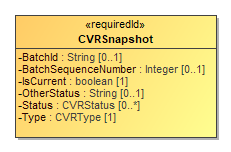
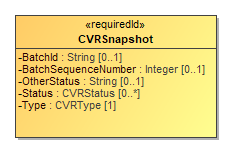
update UML docs

Changed region(s): [[0.0606, 0.5, 0.6364, 0.8158]]

diff --git a/CastVoteRecords_UML_Documentation.md b/CastVoteRecords_UML_Documentation.md
@@ -2,6 +2,7 @@
 
 - Table of Contents
   - Enumerations
+    - *The **[AllocationTargetType](#_19_0_43701b0_1541095618426_226471_5000)** Enumeration*
     - *The **[AllocationType](#_18_5_3_43701b0_1533322047899_321573_5682)** Enumeration*
     - *The **[CastVoteRecordVersion](#_18_0_2_6340208_1488984734564_983877_4662)** Enumeration*
     - *The **[ContestSelectionStatus](#_18_0_5_43401a7_1475850153090_186243_4311)** Enumeration*
@@ -28,6 +29,7 @@
     - *The **[CVR](#_18_0_2_6340208_1532543460307_914551_4600)** Class*
     - *The **[CVRContest](#_18_0_2_6340208_1469203058990_306165_4565)** Class*
     - *The **[CVRContestSelection](#_18_0_5_43401a7_1474452890357_299022_4292)** Class*
+    - *The **[CVRContestSelectionPosition](#_18_0_2_6340208_1485892992407_492157_4635)** Class*
     - *The **[CVRSnapshot](#_17_0_2_4_78e0236_1389366224561_797289_2360)** Class*
     - *The **[CVRWriteIn](#_18_0_2_6340208_1485892911278_166697_4594)** Class*
     - *The **[Election](#_17_0_2_4_f71035d_1426101822599_430942_2209)** Class*
@@ -42,9 +44,18 @@
     - *The **[PartySelection](#_17_0_2_4_f71035d_1426519980658_594892_2511)** Class*
     - *The **[ReportingDevice](#_17_0_2_4_78e0236_1389798013459_389380_4178)** Class*
     - *The **[RetentionContest](#_18_0_2_6340208_1425646217522_163181_4554)** Class*
-    - *The **[SelectionIndication](#_18_0_2_6340208_1485892992407_492157_4635)** Class*
 
 ## Enumerations
+
+### <a name="_19_0_43701b0_1541095618426_226471_5000"></a>*The **AllocationTargetType** Enumeration*
+
+![Image of AllocationTargetType](CastVoteRecords_UML_Documentation_files/_19_0_43701b0_1541095618449_344029_5004.png)
+
+Name | Value
+---- | -----
+`contest-option`|For when the votes should go to the counter of the selected contest option.
+`overvote`|For when the votes should go to the overvote counter.
+`write-in`|For when the votes should go to the write-in counter.
 
 ### <a name="_18_5_3_43701b0_1533322047899_321573_5682"></a>*The **AllocationType** Enumeration*
 
@@ -138,7 +149,7 @@ Name | Value
 `adjudicated`|To indicate that the vote mark was invalidated because of adjudication and is not countable.
 `generated-rules`|To indicate that the vote mark was generated by the generating device per contest rules and is countable.
 `invalidated-rules`|Used to indicate that the vote mark was invalidated by the generating device because of contest rules and is not countable.
-`other`|Used in conjunction with SelectionIndication::OtherStatus when no other value in this enumeration applies.
+`other`|Used in conjunction with CVRContestSelectionPosition::OtherStatus when no other value in this enumeration applies.
 
 ### <a name="_17_0_2_4_f71035d_1431607637366_785815_2242"></a>*The **ReportingUnitType** Enumeration*
 
@@ -341,6 +352,7 @@ Attribute | Multiplicity | Type | Attribute Description
 `BallotStyleId`|0..1|`String`|An identifier of the ballot style associated with the corresponding ballot.
 `BallotStyleUnit`|0..1|`GpUnit`|Identifies the smallest unit of geography associated with the corresponding ballot, typically a precinct or split-precinct.
 `CreatingDevice`|0..1|`ReportingDevice`|Identifies the device that created the CVR.
+`Current`|1|`CVRSnapshot`|Identifies the snapshot that is currently tabulatable.
 `CVRSnapshot`|1..*|`CVRSnapshot`|Identifies the repeatable portion of the CVR that links to contest selections and related information.
 `Election`|1|`Election`|Used to identify an election with which the CVR is associated.
 `Party`|0..*|`Party`|Identifies the party associated with a CVR, typically for partisan primaries.
@@ -383,9 +395,9 @@ Attribute | Multiplicity | Type | Attribute Description
 
 ![Image of CVRContestSelection](CastVoteRecords_UML_Documentation_files/_18_0_5_43401a7_1474452890365_842519_4293.png)
 
-CVRContestSelection is used to link those contest options that contain a indication to information about the indication, such as whether the mark constitutes a countable vote, or whether the mark is determined to be marginal, etc. [CVRContest](#_18_0_2_6340208_1469203058990_306165_4565) includes an instance of CVRContestSelection when an indication for the selection is present, and CVRContestSelection then includes [SelectionIndication](#_18_0_2_6340208_1485892992407_492157_4635) for each indication present. To tie the indication to the specific contest selection, CVRContestSelection links to an instance of [ContestSelection](#_17_0_2_4_78e0236_1389372124445_11077_2906) that has previously been included by [Contest](#_17_0_2_4_78e0236_1389366251994_876831_2400).
+CVRContestSelection is used to link those contest options that contain a indication to information about the indication, such as whether the mark constitutes a countable vote, or whether the mark is determined to be marginal, etc. [CVRContest](#_18_0_2_6340208_1469203058990_306165_4565) includes an instance of CVRContestSelection when an indication for the selection is present, and CVRContestSelection then includes [CVRContestSelectionPosition](#_18_0_2_6340208_1485892992407_492157_4635) for each indication present. To tie the indication to the specific contest selection, CVRContestSelection links to an instance of [ContestSelection](#_17_0_2_4_78e0236_1389372124445_11077_2906) that has previously been included by [Contest](#_17_0_2_4_78e0236_1389366251994_876831_2400).
 
-Since multiple indications per contest option are possible for some voting methods, CVRContestSelection can include multiple instances of [SelectionIndication](#_18_0_2_6340208_1485892992407_492157_4635), one per indication. CVRContestSelection can also be used for the purpose of including, in the CVR, all contest options in the contest regardless of whether indications are present. In this case, CVRContestSelection would not include [SelectionIndication](#_18_0_2_6340208_1485892992407_492157_4635) if no indication is present but would link to the appropriate instance of [ContestSelection](#_17_0_2_4_78e0236_1389372124445_11077_2906).
+Since multiple indications per contest option are possible for some voting methods, CVRContestSelection can include multiple instances of [CVRContestSelectionPosition](#_18_0_2_6340208_1485892992407_492157_4635), one per indication. CVRContestSelection can also be used for the purpose of including, in the CVR, all contest options in the contest regardless of whether indications are present. In this case, CVRContestSelection would not include [CVRContestSelectionPosition](#_18_0_2_6340208_1485892992407_492157_4635) if no indication is present but would link to the appropriate instance of [ContestSelection](#_17_0_2_4_78e0236_1389372124445_11077_2906).
 
 CVRContestSelection has one subtype, [CVRWriteIn](#_18_0_2_6340208_1485892911278_166697_4594), whose attributes are used to include information about the write-in including the text of the write-in or an image of the write-in.
 
@@ -395,9 +407,30 @@ Attribute | Multiplicity | Type | Attribute Description
 `OtherStatus`|0..1|`String`|Used when [Status](#_18_0_5_43401a7_1475850275266_189599_4334) is 'other' to include a user-defined status.
 `Position`|0..1|`Integer`|Used to include the ordinal position of the contest option as it appeared on the ballot.
 `Rank`|0..1|`Integer`|For the RCV voting variation, the rank chosen by the voter, for when a contest selection can represent a ranking.
-`SelectionIndication`|0..*|`SelectionIndication`|Used to include further information about the indication/mark associated with the contest selection. Depending on the voting method, multiple indications/marks per selection may be possible.
+`SelectionIndication`|1..*|`CVRContestSelectionPosition`|Used to include further information about the indication/mark associated with the contest selection. Depending on the voting method, multiple indications/marks per selection may be possible.
 `Status`|0..*|`ContestSelectionStatus`|Contains the status of the contest selection, e.g., 'needs-adjudication' for a contest requiring adjudication, using values from the [ContestSelectionStatus](#_18_0_5_43401a7_1475850153090_186243_4311) enumeration. If no values apply, use 'other' and include a user-defined status in [OtherStatus](#_18_0_5_43401a7_1475855963037_920235_4384).
 `TotalNumberVotes`|1|`Integer`|For cumulative or range voting variations, contains the total number of votes across all indications/marks.
+
+### <a name="_18_0_2_6340208_1485892992407_492157_4635"></a>*The **CVRContestSelectionPosition** Class*
+
+![Image of CVRContestSelectionPosition](CastVoteRecords_UML_Documentation_files/_18_0_2_6340208_1485892992418_910967_4658.png)
+
+[CVRContestSelection](#_18_0_5_43401a7_1474452890357_299022_4292) includes SelectionIndication to specify a voter's indication/mark in a contest option, and thus, a potential vote. The number of potential SelectionIndications that should be included by CVRContestSelection is, for paper ballots, the same as the number of ovals next to a particular option. There will be usually 1 instance of [CVRContestSelectionPosition](#_18_0_2_6340208_1485892992407_492157_4635) for plurality voting, but there could be multiple instances for RCV, approval, cumulative, or other vote variations in which a voter can select multiple options per candidate.
+
+[CVRContestSelectionPosition](#_18_0_2_6340208_1485892992407_492157_4635) contains additional information about the mark to specify whether the mark is countable, as well as information needed for certain voting methods.
+
+Attribute | Multiplicity | Type | Attribute Description
+--------- | ------------ | ---- | ---------------------
+`{CVRWriteIn}`|0..1|`CVRWriteIn`|
+`AllocationTarget`|0..1|`AllocationTargetType`|Target counter that will receive the [NumberVotes](#_18_0_2_6340208_1485892992408_339917_4637).
+`Code`|0..*|`Code`|Code used to identify the contest selection position.
+`IsAllocable`|0..1|`AllocationType`|Whether this indication should be allocated to the contest option's accumulator.
+`IsIndication`|1|`boolean`|Set to true when a contest option position is indicated.
+`NumberVotes`|1|`Integer`|The number of votes represented by the indication, usually 1 but may be more depending on the voting method.
+`OtherStatus`|0..1|`String`|Used when [Status](#_18_0_2_6340208_1485892992408_985925_4639) is 'other' to include a user-defined status.
+`Position`|0..1|`Integer`|The ordinal position of the indication within the contest option.
+`Rank`|0..1|`Integer`|For the RCV voting variation, the rank chosen by the voter, for when a indication can represent a ranking.
+`Status`|0..*|`IndicationStatus`|Status of the mark, e.g., "generated-rules" for generated by the machine, from the [IndicationStatus](#_18_0_2_6340208_1485894157707_572874_4551) enumeration. If no values apply, use 'other' and include a user-defined status in OtherStatus.
 
 ### <a name="_17_0_2_4_78e0236_1389366224561_797289_2360"></a>*The **CVRSnapshot** Class*
 
@@ -411,7 +444,6 @@ Attribute | Multiplicity | Type | Attribute Description
 `BatchId`|0..1|`String`|The identifier for the batch that includes this CVR.
 `BatchSequenceNumber`|0..1|`Integer`|The sequence number of the corresponding paper ballot within a batch.
 `CVRContest`|0..*|`CVRContest`|Identifies the contests in the CVR.
-`IsCurrent`|1|`boolean`|Identifies whether this snapshot is the tabulatable version.
 `OtherStatus`|0..1|`String`|When [Status](#_18_0_2_6340208_1472158928951_402259_4603) is 'other', contains the ballot status.
 `Status`|0..*|`CVRStatus`|The status of the CVR.
 `Type`|1|`CVRType`|The type of the snapshot, e.g., original.
@@ -506,7 +538,6 @@ Attribute | Multiplicity | Type | Attribute Description
 `Hash`|0..1|`Hash`|A hash value for the image data, used for verification comparisons against subsequent copies of the image.
 `Image`|0..1|`Image`|The image of an individual ballot sheet created by the scanner, could possibly include both sides of a two-sided ballot sheet depending on the scanner's configuration.
 `Location`|0..1|`anyURI`|A pointer to the location of the image file.
-`Signature`|0..1|`Signature`|Either a signature for the embedded image, or a detached signature for the image available at the specified location.
 
 ### <a name="_18_0_2_6340208_1532537360373_372867_4552"></a>*The **Mark** Class*
 
@@ -572,23 +603,6 @@ RetentionContest is a subclass of [BallotMeasureContest](#_17_0_2_4_78e0236_1389
 Attribute | Multiplicity | Type | Attribute Description
 --------- | ------------ | ---- | ---------------------
 `Candidate`||`Candidate`|Identifies the candidate in the retention contest.
-
-### <a name="_18_0_2_6340208_1485892992407_492157_4635"></a>*The **SelectionIndication** Class*
-
-![Image of SelectionIndication](CastVoteRecords_UML_Documentation_files/_18_0_2_6340208_1485892992418_910967_4658.png)
-
-[CVRContestSelection](#_18_0_5_43401a7_1474452890357_299022_4292) includes SelectionIndication to specify a voter's indication/mark in a contest option, and thus, a potential vote. The number of potential SelectionIndications that should be included by CVRContestSelection is, for paper ballots, the same as the number of ovals next to a particular option. There will be usually 1 instance of [SelectionIndication](#_18_0_2_6340208_1485892992407_492157_4635) for plurality voting, but there could be multiple instances for RCV, approval, cumulative, or other vote variations in which a voter can select multiple options per candidate.
-
-[SelectionIndication](#_18_0_2_6340208_1485892992407_492157_4635) contains additional information about the mark to specify whether the mark is countable, as well as information needed for certain voting methods.
-
-Attribute | Multiplicity | Type | Attribute Description
---------- | ------------ | ---- | ---------------------
-`IsAllocable`|1|`AllocationType`|Whether this indication should be allocated to the contest option's accumulator.
-`NumberVotes`|1|`Integer`|The number of votes represented by the indication, usually 1 but may be more depending on the voting method.
-`OtherStatus`|0..1|`String`|Used when [Status](#_18_0_2_6340208_1485892992408_985925_4639) is 'other' to include a user-defined status.
-`Position`|0..1|`Integer`|The ordinal position of the indication within the contest option.
-`Rank`|0..1|`Integer`|For the RCV voting variation, the rank chosen by the voter, for when a indication can represent a ranking.
-`Status`|0..*|`IndicationStatus`|Status of the mark, e.g., "generated-rules" for generated by the machine, from the [IndicationStatus](#_18_0_2_6340208_1485894157707_572874_4551) enumeration. If no values apply, use 'other' and include a user-defined status in OtherStatus.
 
 # NIST V1.0 - CastVoteRecords
 
